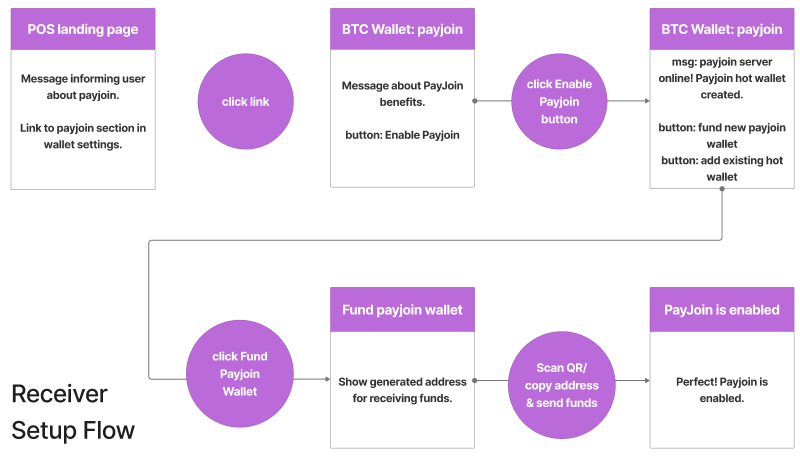
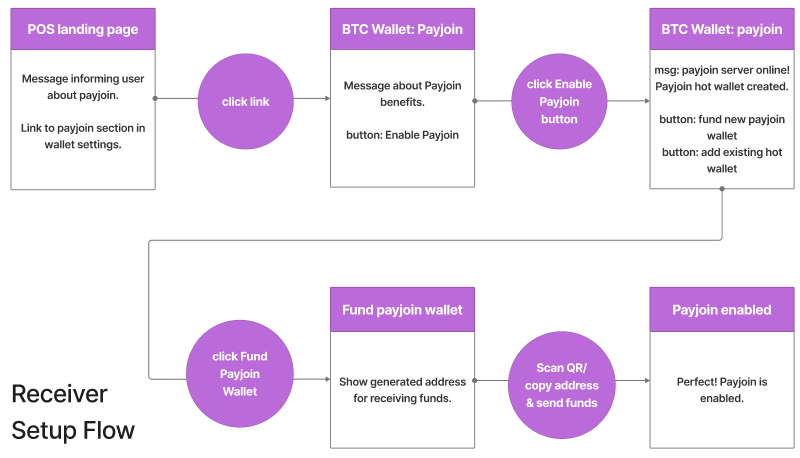
fixed images etc.

diff --git a/guide/case-studies/payjoin.md b/guide/case-studies/payjoin.md
@@ -75,7 +75,7 @@ Conversion notes:
 
 ## Introduction
 
-Payjoin transactions can be a powerful tool providing privacy, fee-savings and UTXO consolidation benefits to users. They also present challenges and trade-offs due to their interactive & synchronous, multi-party nature.
+Payjoin transactions can be a powerful tool providing privacy, fee-savings and UTXO consolidation benefits to users. They also present challenges and trade-offs due to their interactive & synchronous nature.
 
 ### Payjoin transactions break some of the chain analysis [heuristics](https://github.com/bitcoin/bips/blob/master/bip-0078.mediawiki#motivation) during the course of making a payment. However, real time coordination between the sender & receiver mediated through an endpoint is required to construct them.
 
@@ -226,8 +226,8 @@ For the purpose of creating the sender flow, we will assume that the receiver on
 ### In short, the sender flow outlined here asks the user to choose a fee-range instead of a fee-amount (or fee-rate) while keeping the rest of the user flow almost exactly the same. We use it to set 3 optional parameters specified in BIP-78, which can be used to construct a simple but effective payjoin implementation.
 
 {% include picture.html
-   image = "assets/images/guide/case-studies/payjoin-case-study/payjoin sender flow.png"
-   retina = "assets/images/guide/case-studies/payjoin-case-study/payjoin sender flow@2x.png"
+   image = "assets/images/guide/case-studies/payjoin-case-study/payjoin-sender-flow.png"
+   retina = "assets/images/guide/case-studies/payjoin-case-study/payjoin-sender-flow@2x.png"
    alt-text = "payjoin sender flow"
    width = 800
    height = 374
